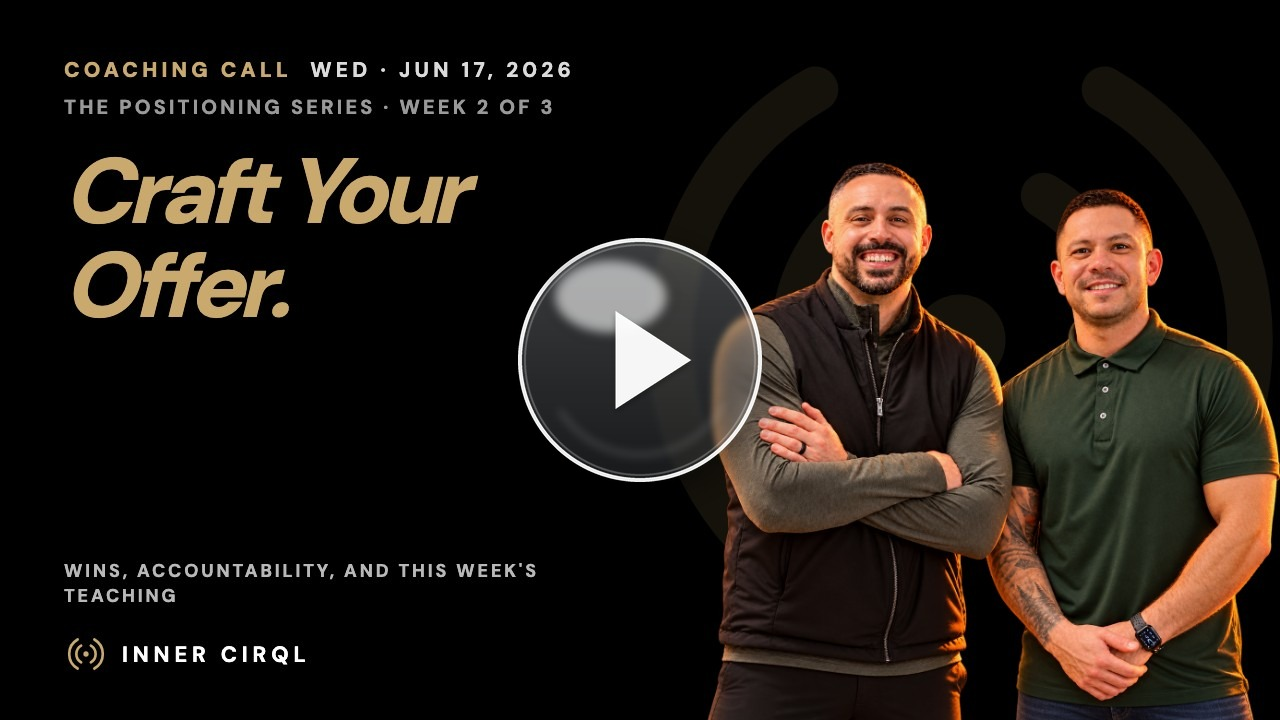
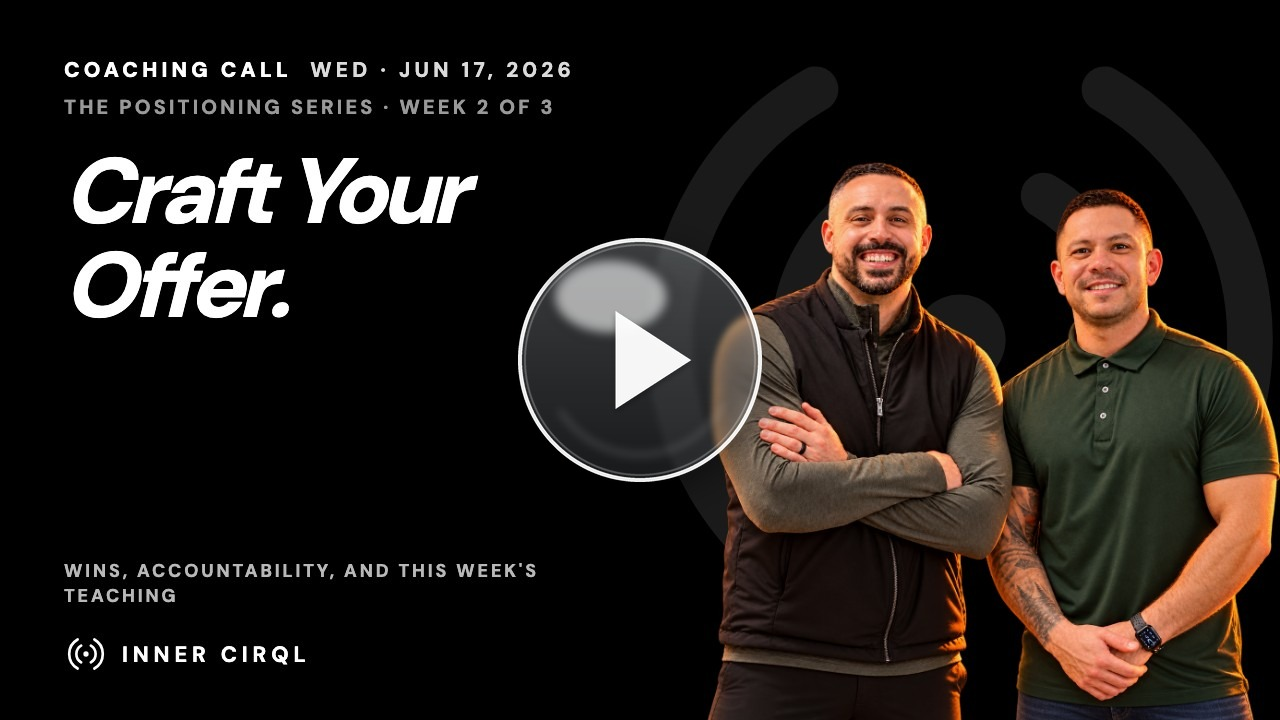
Training: retitle Jun 17 coaching call (The Positioning Series · Week 2 · Offer.) + thumbnail

Changed region(s): [[0.0312, 0.2139, 0.375, 0.4583], [0.0312, 0.0917, 0.2188, 0.1222], [0.0312, 0.8861, 0.0938, 0.9167]]

diff --git a/training/index.html b/training/index.html
@@ -94,6 +94,26 @@ window.LIBRARY = {
   ],
   "items": [
     {
+      "id": "v-2026-06-17",
+      "date": "2026-06-17",
+      "dateLabel": "June 17, 2026",
+      "series": "positioning",
+      "week": 2,
+      "name": "Offer.",
+      "title": "The Positioning Series · Week 2 · Offer.",
+      "headline": [
+        "Craft Your",
+        "Offer."
+      ],
+      "sub": "The Positioning Series · Week 2 of 3",
+      "desc": "The Positioning Series, Week 2: wrap your Niche in an Offer. Wins, accountability, and the teaching segment, edited replay.",
+      "href": "https://coach.theinnercirql.com/2026-06-17/",
+      "pdf": null,
+      "slides": null,
+      "embed": "https://www.youtube.com/embed/YI0F791uKZE?rel=0&modestbranding=1",
+      "thumb": "/assets/thumbs/jun-17-call.jpg?v=29920161"
+    },
+    {
       "id": "v-2026-06-10",
       "date": "2026-06-10",
       "dateLabel": "June 10, 2026",
@@ -532,26 +552,6 @@ window.LIBRARY = {
       "slides": null,
       "embed": "https://www.youtube.com/embed/JC9sWRmPtWw?rel=0&modestbranding=1",
       "thumb": "/assets/thumbs/jun-24-call.jpg?v=29920143"
-    },
-    {
-      "id": "v-2026-06-17",
-      "date": "2026-06-17",
-      "dateLabel": "June 17, 2026",
-      "series": "positioning",
-      "week": 2,
-      "name": "Offer.",
-      "title": "The Positioning Series · Week 2 · Offer.",
-      "headline": [
-        "Craft Your",
-        "Offer."
-      ],
-      "sub": "The Positioning Series · Week 2 of 3",
-      "desc": "The Positioning Series, Week 2: wrap your Niche in an Offer. Wins, accountability, and the teaching segment, edited replay.",
-      "href": "https://coach.theinnercirql.com/2026-06-17/",
-      "pdf": null,
-      "slides": null,
-      "embed": "https://www.youtube.com/embed/YI0F791uKZE?rel=0&modestbranding=1",
-      "thumb": "/assets/thumbs/jun-17-call.jpg?v=29920142"
     },
     {
       "id": "t-become-a-listing-magnet",
